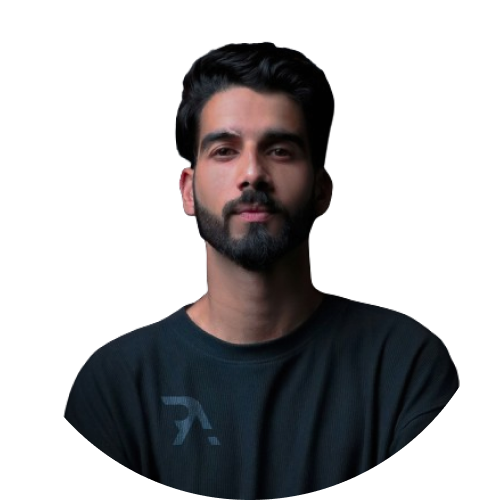
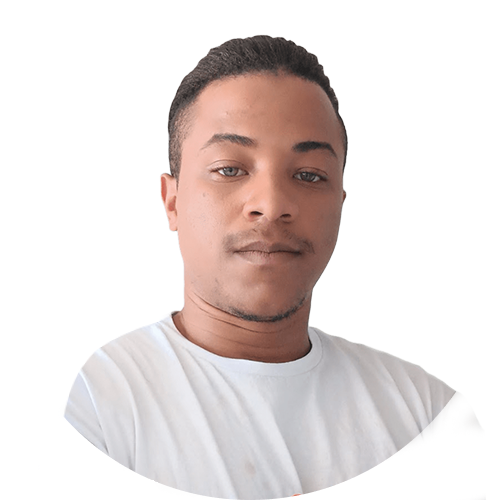
:sparkles: (Change Home Photo)

diff --git a/src/components/Photo.tsx b/src/components/Photo.tsx
@@ -25,7 +25,7 @@ const Photo = () => {
                         quality={100}
                         fill
                         alt=''
-                        className='object-contain'
+                        className='object-contain opacity-80'
                     />
                 </motion.div>
 
